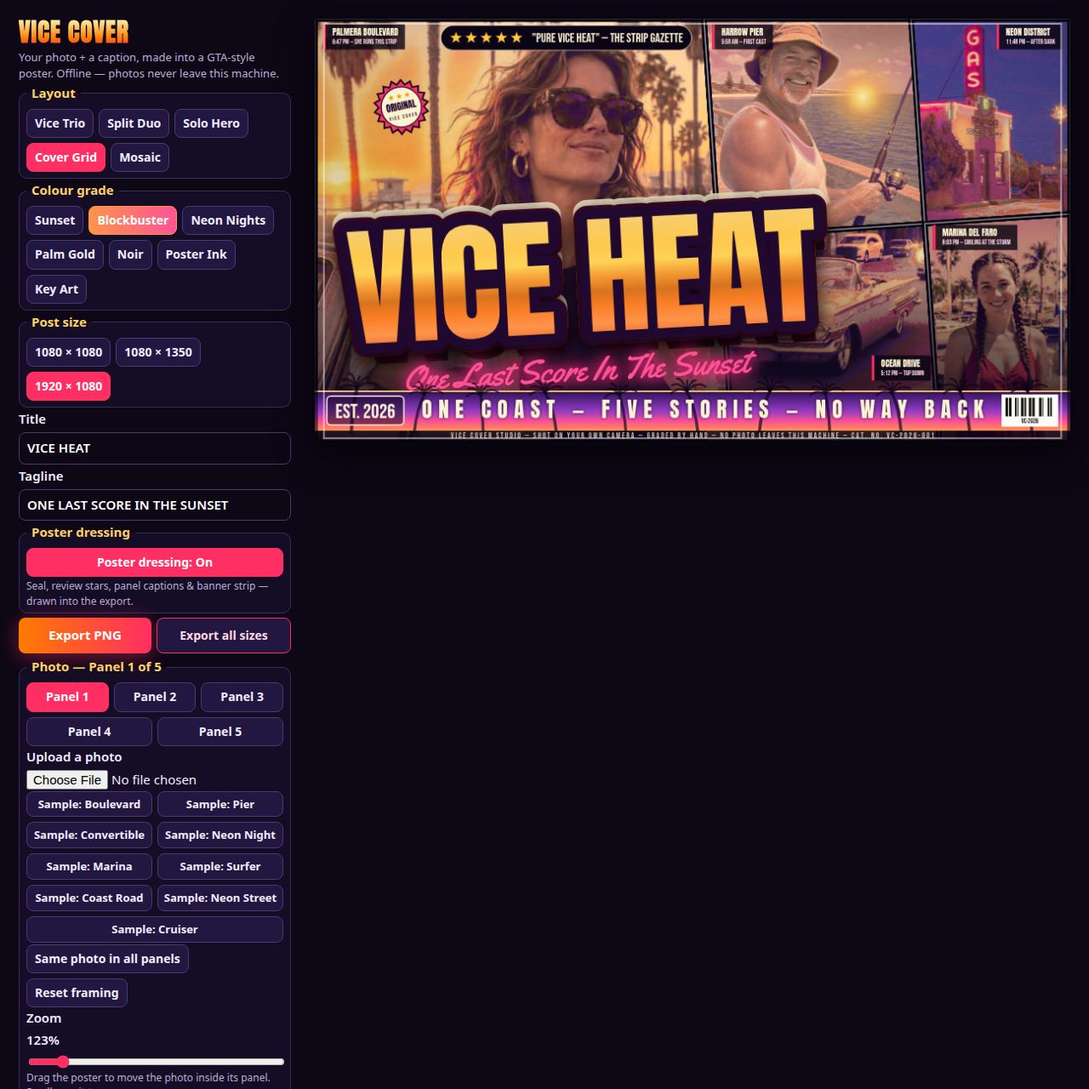
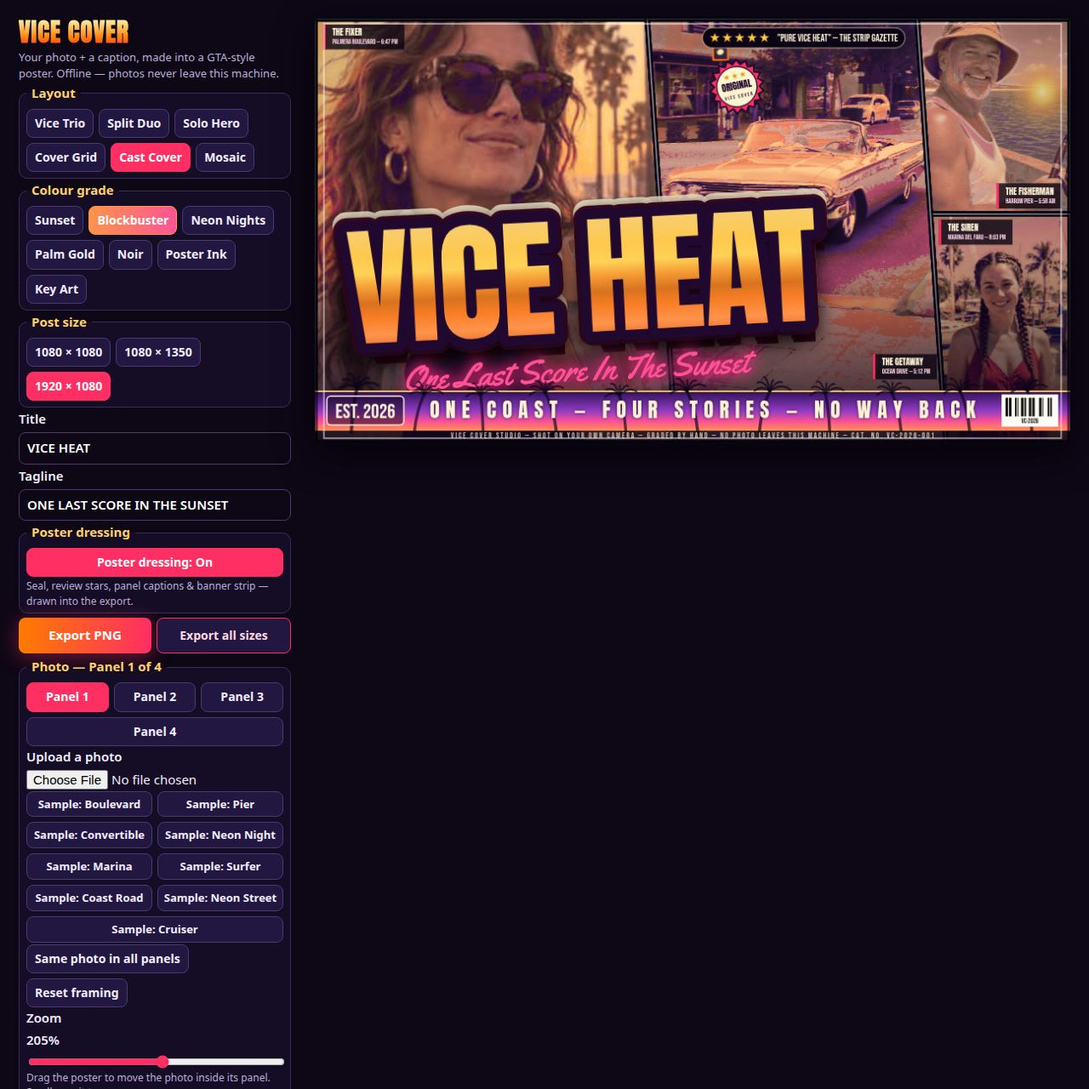
Round 48: Cast Cover — asymmetric cast-dominant layout
New layout 'cast' (editor button 'Cast Cover', the landscape
showcase): a dominant hero panel (44% of the cover's width,
full height) whose heroine's face stands 486 px tall — 45% of
the panel against the Grid's 31% — a full-height cruiser scene
panel in the middle with the car reframed into the strip above
the title band (visible car area ~134k px, about twice the
Grid cell's ~68k), and a stacked portrait column: the
fisherman over the marina portrait, her cell kept at the exact
canvas scale its skin gate proved. Every panel carries its
cast-role chip — THE FIXER / THE FISHERMAN / THE SIREN /
THE GETAWAY — over the established place-and-time line; the
seal and review pill ride the scene panel, clear of every
face; the banner counts four stories. Skin gates all pass
(heroine 18.14/18.43, marina 17.78/18.42, fisherman tight
0.63/1.39, wide 2.09/3.84). Portrait screenshot stays on the
proven Duo; Grid rendering is pixel-identical to round 46.

diff --git a/app/src/poster.js b/app/src/poster.js
@@ -45,6 +45,7 @@ export const LAYOUTS = {
   duo: { panels: 2, slant: 0.055, label: 'Split Duo' },
   solo: { panels: 1, slant: 0, label: 'Solo Hero' },
   grid: { panels: 5, slant: 0, label: 'Cover Grid' },
+  cast: { panels: 4, slant: 0, label: 'Cast Cover' },
   mosaic: { panels: 9, slant: 0, label: 'Mosaic' },
 };
 
@@ -437,6 +438,7 @@ export const GRADES = {
  *  is a 3x3 grid of nine equal cells (the GTA V cover pattern). */
 export function panelShapes(w, h, layout) {
   if (layout === 'grid') return { shapes: gridShapes(w, h), slant: 0, count: 5 };
+  if (layout === 'cast') return { shapes: castShapes(w, h), slant: 0, count: 4 };
   if (layout === 'mosaic') return { shapes: mosaicShapes(w, h), slant: 0, count: 9 };
   const spec = LAYOUTS[layout] ?? LAYOUTS.trio;
   const n = spec.panels;
@@ -550,6 +552,71 @@ function gridShapes(w, h) {
   return [rect(0, 0, w, mh, true),
     rect(0, mh, cw, h - mh), rect(cw, mh, cw, h - mh),
     rect(2 * cw, mh, cw, h - mh), rect(3 * cw, mh, cw, h - mh)];
+}
+
+/** Cast (round 48): the asymmetric cast block the top of the board
+ *  wins with — one dominant hero panel, a column of stacked portraits
+ *  and a tall vehicle scene, instead of the Grid's even satellite
+ *  block where every subject read at the same small scale. Panel
+ *  order is the cast order everywhere: hero, pier portrait, marina
+ *  portrait, cruiser scene.
+ *  Landscape: the hero takes the left 44% of the frame at full
+ *  height behind the same right-leaning divider the Grid uses; the
+ *  portraits stack in a column at the right whose width (389/1920 of
+ *  the frame) and split (the marina panel keeps 54% of the height)
+ *  hold the marina cell at exactly the size its measured skin gate
+ *  was proven at in the Grid — its draw scale does not move, so the
+ *  portrait that could not grow in round 47 keeps its proven frame
+ *  while the hero grows around it; the cruiser scene fills the tall
+ *  middle between the hero's divider and the portrait column, a
+ *  full-height stage the lettering only crosses at its left flank,
+ *  so the car shows whole instead of as the strip the Grid's band
+ *  left of it. The three right-hand panels share the hero's lean, so
+ *  the four tile the canvas exactly.
+ *  Portrait: hero across the top (46% of the height), the two
+ *  portraits side by side under it, the cruiser as a wide strip
+ *  along the foot. Square: the same stack with a taller hero. */
+function castShapes(w, h) {
+  const rect = (x, y, pw, ph, main) => ({
+    x, y, w: pw, h: ph, main: !!main,
+    poly: [[x, y], [x + pw, y], [x + pw, y + ph], [x, y + ph]],
+  });
+  if (w > h) {
+    const lean = w * 0.038;
+    const hw = w * 0.44;
+    const colW = w * (389 / 1920);
+    const cw0 = w - colW;
+    const ph = h * 0.46;
+    const shape = (poly, main) => {
+      const xs = poly.map((p) => p[0]);
+      const ys = poly.map((p) => p[1]);
+      const x = Math.min(...xs);
+      const y = Math.min(...ys);
+      return {
+        x, y, w: Math.max(...xs) - x, h: Math.max(...ys) - y,
+        main: !!main, poly,
+      };
+    };
+    const t = ph / h;
+    return [
+      shape([[0, 0], [hw, 0], [hw + lean, h], [0, h]], true),
+      shape([[cw0, 0], [w, 0], [w, ph], [cw0 + lean * t, ph]]),
+      shape([[cw0 + lean * t, ph], [w, ph], [w, h], [cw0 + lean, h]]),
+      shape([[hw, 0], [cw0, 0], [cw0 + lean, h], [hw + lean, h]]),
+    ];
+  }
+  if (w < h) {
+    const mh = h * 0.46;
+    const ch = h * 0.3;
+    return [rect(0, 0, w, mh, true),
+      rect(0, mh, w / 2, ch), rect(w / 2, mh, w / 2, ch),
+      rect(0, mh + ch, w, h - mh - ch)];
+  }
+  const mh = h * 0.5;
+  const ch = h * 0.28;
+  return [rect(0, 0, w, mh, true),
+    rect(0, mh, w / 2, ch), rect(w / 2, mh, w / 2, ch),
+    rect(0, mh + ch, w, h - mh - ch)];
 }
 
 /** Mosaic: nine equal cells in a 3x3 grid, whatever the canvas aspect —
@@ -1836,11 +1903,13 @@ const SUN_FX = {
   trio: { land: 0.685, sq: 0.58, port: 0.565 },
   duo: { land: 0.78, sq: 0.64, port: 0.6 },
   grid: { land: 0.7, sq: 0.625, port: 0.78 },
+  cast: { land: 0.7, sq: 0.68, port: 0.68 },
 };
 const SUN_R = {
   trio: { land: 0.072, sq: 0.065, port: 0.065 },
   duo: { land: 0.072, sq: 0.065, port: 0.065 },
   grid: { land: 0.052, sq: 0.05, port: 0.065 },
+  cast: { land: 0.05, sq: 0.05, port: 0.06 },
 };
 
 export function sunAnchor(state, shapes, w, h) {
@@ -1944,6 +2013,23 @@ const PANEL_CAPTIONS = [
   ['OCEAN DRIVE', '5:12 PM — TOP DOWN'],
   ['NEON DISTRICT', '11:48 PM — AFTER DARK'],
   ['MARINA DEL FARO', '8:03 PM — SMILING AT THE STORM'],
+];
+
+// Role chips for the Cast layout's four panels, in cast order — the
+// complete system, one role per panel, each name born from what its
+// photo actually shows (round 45's lesson: a half-mixed system of
+// roles and places read as half-hearted, and a role the image does
+// not support reads as pasted on). The heroine runs the boulevard
+// in sunglasses — the fixer. The pier man holds a fishing rod on his
+// own pier — the fisherman, literally. The marina girl smiles out
+// of the harbour dusk — the siren. The cruiser is the car the story
+// leaves in — the getaway. The sub-line keeps the Grid chips' own
+// form, place and hour, so the role sits on the same furniture.
+const CAST_CAPTIONS = [
+  ['THE FIXER', 'PALMERA BOULEVARD — 6:47 PM'],
+  ['THE FISHERMAN', 'HARROW PIER — 5:58 AM'],
+  ['THE SIREN', 'MARINA DEL FARO — 8:03 PM'],
+  ['THE GETAWAY', 'OCEAN DRIVE — 5:12 PM'],
 ];
 
 function rr(ctx, x, y, w, h, r) {
@@ -2051,18 +2137,23 @@ function drawSeal(ctx, cx, cy, r, rot) {
  *  (round 15 pixel scan below), so that one pill is filled solid —
  *  nothing behind it can show through its body. */
 function drawRatingRow(ctx, w, h, cy, spot = null) {
-  const starR = h * 0.0155;
+  // `spot.scale` (round 48, the Cast cruiser placement) shrinks the
+  // whole pill as one piece — stars, lettering, gaps and padding —
+  // for a panel narrower than the hero it was designed on; every
+  // existing caller leaves it unset and gets exactly 1.
+  const sc = spot && spot.scale ? spot.scale : 1;
+  const starR = h * 0.0155 * sc;
   const quote = `${REVIEW_QUOTE} — ${REVIEW_SOURCE}`;
-  ctx.font = `${Math.round(h * 0.029)}px "Bebas Neue", sans-serif`;
+  ctx.font = `${Math.round(h * 0.029 * sc)}px "Bebas Neue", sans-serif`;
   const tw = ctx.measureText(quote).width;
   const starsW = 5 * starR * 2.3;
-  const gap = h * 0.016;
-  const padX = h * 0.02;
+  const gap = h * 0.016 * sc;
+  const padX = h * 0.02 * sc;
   const totalW = starsW + gap + tw;
   const x0 = spot && spot.right != null
     ? spot.right - totalW - padX
     : (w - totalW) / 2;
-  const pillH = h * 0.058;
+  const pillH = h * 0.058 * sc;
   rr(ctx, x0 - padX, cy - pillH / 2, totalW + padX * 2, pillH, pillH / 2);
   ctx.fillStyle = spot && spot.opaque ? '#0a0414' : 'rgba(10, 4, 20, 0.62)';
   ctx.fill();
@@ -2080,21 +2171,22 @@ function drawRatingRow(ctx, w, h, cy, spot = null) {
   ctx.fillStyle = '#fff3d6';
   ctx.textAlign = 'left';
   ctx.textBaseline = 'alphabetic';
-  ctx.fillText(quote, x0 + starsW + gap, cy + h * 0.0102);
+  ctx.fillText(quote, x0 + starsW + gap, cy + h * 0.0102 * sc);
 }
 
 /** One caption chip per Grid panel, top-left inside the panel: a dark
  *  chip with a magenta spine, the place in Anton and the time-and-beat
  *  line under it in Bebas — the cover lines of the bundled scenes. */
-function drawPanelChips(ctx, shapes, w, h) {
+function drawPanelChips(ctx, shapes, w, h, layoutKey) {
+  const caps = layoutKey === 'cast' ? CAST_CAPTIONS : PANEL_CAPTIONS;
   const nameSize = Math.round(h * 0.0205);
   const subSize = Math.round(h * 0.0155);
   const padX = Math.max(8, w * 0.007);
   const padY = Math.max(5, h * 0.007);
   const barW = Math.max(3, w * 0.0024);
   const lineGap = Math.max(2, h * 0.003);
-  for (let i = 0; i < shapes.length && i < PANEL_CAPTIONS.length; i++) {
-    const [name, sub] = PANEL_CAPTIONS[i];
+  for (let i = 0; i < shapes.length && i < caps.length; i++) {
+    const [name, sub] = caps[i];
     ctx.font = `${nameSize}px Anton, "Arial Black", sans-serif`;
     const nameW = ctx.measureText(name).width;
     ctx.font = `${subSize}px "Bebas Neue", sans-serif`;
@@ -2112,14 +2204,30 @@ function drawPanelChips(ctx, shapes, w, h) {
     // portrait and square Grids flag nothing and keep the plain
     // top-left rule.
     const buried = w > h && !!shapes[i].chipLow;
-    let x = i === 3
+    // The Cast cruiser's chip (round 48): the scene panel's top is
+    // the review pill's ground and its left flank is the title's, so
+    // THE GETAWAY drops to the panel's lower right instead — the
+    // street below the car, above the banner strip, clamped inside
+    // the panel's slanted right edge like every other chip.
+    const castLow = layoutKey === 'cast' && w > h && i === 3;
+    // The Cast pier chip (round 48): the portrait column is narrow,
+    // so a top-left chip there would sit across the fisherman's hat
+    // and forehead — his panel's one crowded corner. THE FISHERMAN
+    // instead rides the panel's lower right, over the open sea
+    // beside his rod, clear of the face above and the divider below.
+    const castSea = layoutKey === 'cast' && w > h && i === 1;
+    let x = i === 3 || castSea
       ? shapes[i].x + shapes[i].w - chipW - w * 0.011
       : (buried
         ? shapes[i].x + shapes[i].w - chipW - w * 0.011
         : shapes[i].x + w * 0.011);
-    let y = buried
-      ? shapes[i].y + shapes[i].h * 0.6
-      : shapes[i].y + h * 0.013;
+    let y = castLow
+      ? h * 0.79
+      : (castSea
+        ? shapes[i].y + shapes[i].h - chipH - h * 0.013
+        : (buried
+          ? shapes[i].y + shapes[i].h * 0.6
+          : shapes[i].y + h * 0.013));
     // Round 19: the landscape Grid's panels are parallelograms now, so
     // a chip parked off the bounding box can hang over a slanted edge
     // onto the neighbouring panel (the marina cell's top-left corner
@@ -2135,7 +2243,7 @@ function drawPanelChips(ctx, shapes, w, h) {
     const spanR = polySpanAtX(shapes[i].poly, x + chipW);
     if (spanL) y = Math.max(y, spanL.top + mY);
     if (spanR) y = Math.max(y, spanR.top + mY);
-    if (i === 3 || buried) {
+    if (i === 3 || buried || castSea) {
       const spanT = polySpanAtY(shapes[i].poly, y);
       const spanB = polySpanAtY(shapes[i].poly, y + chipH);
       if (spanT) x = Math.min(x, spanT.right - chipW - mX);
@@ -2257,8 +2365,12 @@ function drawBannerStrip(ctx, w, h, state) {
   // letterspaced capitals, fitted to the space BETWEEN the chip and
   // the barcode and centred in that span — on a narrow canvas the
   // height-scaled chip and barcode would otherwise eat the line's
-  // first and last letters.
-  const line = BANNER_LINE;
+  // first and last letters. The Cast cover counts its own panels:
+  // four stories, not five — the copy stays true to the cover it
+  // rides on.
+  const line = state.layout === 'cast'
+    ? 'ONE COAST — FOUR STORIES — NO WAY BACK'
+    : BANNER_LINE;
   const midL = estX + estW + w * 0.02;
   const midR = bcX - w * 0.02;
   let size = Math.round(sh * 0.54);
@@ -2297,7 +2409,21 @@ function drawDressing(ctx, w, h, state, shapes, titleBox) {
     drawSeal(ctx, w * 0.94, h * 0.055, minSide * 0.05, 0.18);
     return;
   }
-  if (state.layout === 'grid') {
+  if (state.layout === 'cast') {
+    drawPanelChips(ctx, shapes, w, h, 'cast');
+    if (w > h) {
+      // Landscape Cast: the hero's sky belongs to her face now, so
+      // the seal and the review pill move to the cruiser scene's
+      // sky and street — the one panel with no face to protect. The
+      // seal rides the upper street at the panel's left-of-centre;
+      // the pill (scaled to the panel's narrower span, opaque like
+      // the Grid hero's) right-aligns to the panel's own slanted
+      // right edge at its top, clear of the seal below it.
+      drawSeal(ctx, shapes[3].x + shapes[3].w * 0.3, h * 0.16, minSide * 0.064, -0.2);
+    } else {
+      drawSeal(ctx, w * 0.5, shapes[1].y, minSide * 0.085, -0.2);
+    }
+  } else if (state.layout === 'grid') {
     drawPanelChips(ctx, shapes, w, h);
     // Landscape Grid: the seal rides the HERO panel's sky — measured,
     // not assumed. Round 13 put it on the causeway panel on the claim
@@ -2354,6 +2480,13 @@ function drawDressing(ctx, w, h, state, shapes, titleBox) {
       // the fisherman's corner.
       const heroSpan = polySpanAtY(shapes[0].poly, h * 0.045);
       drawRatingRow(ctx, w, h, h * 0.045, { right: (heroSpan ? heroSpan.right : shapes[0].x + shapes[0].w) - w * 0.018, opaque: true });
+    } else if (state.layout === 'cast' && w > h) {
+      // The Cast pill (see the seal note above): right-aligned to
+      // the cruiser panel's slanted right edge at the pill's height,
+      // scaled to fit inside the panel's span at that height, opaque
+      // because the street behind it is busy print.
+      const sceneSpan = polySpanAtY(shapes[3].poly, h * 0.045);
+      drawRatingRow(ctx, w, h, h * 0.045, { right: (sceneSpan ? sceneSpan.right : shapes[3].x + shapes[3].w) - w * 0.018, opaque: true, scale: 0.82 });
     } else {
       const cy = titleBox
         ? titleBox.baseline - titleBox.size - h * 0.042
@@ -2706,7 +2839,7 @@ export function drawPoster(canvas, state) {
       // pill). The stack also rides higher than the undressed one,
       // because the banner strip below it is a full design band now,
       // not a footnote strip.
-      const bandTitle = dressed && state.layout === 'grid' && w > h;
+      const bandTitle = dressed && (state.layout === 'grid' || state.layout === 'cast') && w > h;
       const heroCx = (!bandTitle && dressed && state.layout === 'grid' && w > h)
         ? shapes[0].x + shapes[0].w / 2
         : null;

diff --git a/app/src/shots.js b/app/src/shots.js
@@ -75,6 +75,22 @@ export async function runShot(shot, query, helpers) {
   const heroFrame = (state.layout === 'grid' && state.grade === 'blockbuster')
     ? { zoom: 1.23, ox: 0.4, oy: 0.74 }
     : undefined;
+  // The Cast showcase's hero framing (round 48): the Cast hero panel
+  // is narrower than the Grid's (44% of the frame against 51.5%) but
+  // the face it carries is far larger — the panel itself does the
+  // growing the Grid's zoom could not. At zoom 2.05 the established
+  // face box stands ~486 px tall, ~45% of the panel's height against
+  // the Grid's 31%, with its chin on the title band's top edge and
+  // its hair just under the frame's top; the window shows her head,
+  // shoulders and upper chest above the letters and the car's zone
+  // below them, the winners' pattern the Grid scene already follows.
+  // The portrait Cast hero (1080x1350) is width-driven instead: at
+  // zoom 1.05 her face already stands ~47% of its shorter panel.
+  const castHeroFrame = (state.layout === 'cast' && state.grade === 'blockbuster')
+    ? (state.size === '1080x1350'
+      ? { zoom: 1.05, ox: 0.35, oy: 0.78 }
+      : { zoom: 2.05, ox: -0.35, oy: 0.6 })
+    : undefined;
   // The Blockbuster Grid showcase's scene panels get their own
   // framings, for the same reason the hero does. The cruiser photo
   // (round 34: the 1960 Impala convertible street scene restored
@@ -134,6 +150,29 @@ export async function runShot(shot, query, helpers) {
   const cruiserFrame = (showcaseScene && third.endsWith('cruiser.jpg'))
     ? { zoom: 1.65, ox: -0.24, oy: -0.16 }
     : undefined;
+  // The Cast cruiser framing (round 48): the scene panel is tall and
+  // full-height, and the window (zoom 1.28) is raised so the whole
+  // car — nose to fin — rides in the strip ABOVE the title band,
+  // the mirror of the Grid cell's trick of holding the car in the
+  // strip below the letters: the car's established box stands at
+  // canvas y ~255-565 with the seal just above its roofline, and
+  // the visible car area measures ~134k px, about twice what the
+  // Grid cell showed from behind the lettering (~68k). The street
+  // and the title fill the panel below the car. The portrait strip
+  // centres a gentler window on the car instead.
+  const cruiserCastFrame = (state.layout === 'cast' && state.grade === 'blockbuster' && third.endsWith('cruiser.jpg'))
+    ? (state.size === '1080x1350'
+      ? { zoom: 1.15, ox: 0.74, oy: -0.03 }
+      : { zoom: 1.28, ox: 0.44, oy: -0.78 })
+    : undefined;
+  // The Cast pier framing (round 48): the portrait column is
+  // narrower than the Grid's pier cell, so the window zooms to 1.25
+  // to hold the fisherman's face at the size the Grid showed it —
+  // the draw scale lands where the Grid's own cell put it, and the
+  // whole man stays in frame: hat, face, torso, rod hand, railing.
+  const pierCastFrame = (state.layout === 'cast' && state.grade === 'blockbuster' && second.endsWith('pier.jpg'))
+    ? { zoom: 1.25, ox: 0, oy: 0.55 }
+    : undefined;
   const neonFrame = (showcaseScene && fourth.endsWith('neon.jpg'))
     ? { zoom: 1.1, ox: -0.44, oy: 0.55 }
     : undefined;
@@ -163,12 +202,21 @@ export async function runShot(shot, query, helpers) {
   const pierDuoFrame = (state.layout === 'duo' && state.grade === 'blockbuster' && second.endsWith('pier.jpg'))
     ? { zoom: 0.87, ox: 0, oy: 1 }
     : undefined;
-  put(0, first, imgA, heroFrame);
-  put(1, second, imgB, pierDuoFrame);
+  put(0, first, imgA, heroFrame ?? castHeroFrame);
+  put(1, second, imgB, pierDuoFrame ?? pierCastFrame);
   put(2, third, imgC, cruiserFrame);
   put(3, fourth, imgD, neonFrame);
   put(4, fifth, imgE);
   put(5, sixth, imgF);
+  // The Cast layout's panel order is its own — hero, pier portrait,
+  // marina portrait, cruiser scene: the marina takes panel 2 (at the
+  // renderer's default framing exactly; its Cast cell is built to
+  // the size that frame was proven at in the Grid) and the cruiser
+  // takes panel 3 at its Cast frame above.
+  if (state.layout === 'cast') {
+    put(2, fifth, imgE);
+    put(3, third, imgC, cruiserCastFrame);
+  }
   // Mosaic's last row: second showings of the first three photos, sharing
   // their Image objects so the renderer mirrors them like the editor does.
   put(6, first, imgA);

diff --git a/main.ts b/main.ts
@@ -8,8 +8,11 @@
 // make.fun library (vendor/makefun-app.ts, unchanged).
 //
 // The app itself: pick a photo per panel, crop it by dragging, pick a layout
-// (Vice Trio / Split Duo / Solo Hero / Cover Grid / Mosaic — Mosaic's
-// lettering sits in a title band below its nine panels), a colour grade
+// (Vice Trio / Split Duo / Solo Hero / Cover Grid / Cast Cover / Mosaic —
+// Mosaic's lettering sits in a title band below its nine panels; Cast Cover
+// is the asymmetric showcase: one dominant hero panel at poster scale, two
+// stacked portraits and a full-height scene panel, every panel carrying
+// its cast-role caption chip), a colour grade
 // (Sunset, Neon Nights, Palm Gold, Noir, Poster Ink — all gradient-mapped,
 // Poster Ink with a highlight-masked halftone, Noir with an ordered Bayer
 // dither through its posterize — Blockbuster, the photographic class: a

diff --git a/app/index.html b/app/index.html
@@ -22,6 +22,7 @@
         <button type="button" data-layout="duo">Split Duo</button>
         <button type="button" data-layout="solo">Solo Hero</button>
         <button type="button" data-layout="grid">Cover Grid</button>
+        <button type="button" data-layout="cast">Cast Cover</button>
         <button type="button" data-layout="mosaic">Mosaic</button>
       </div>
     </fieldset>

diff --git a/README.md b/README.md
@@ -4,7 +4,7 @@
 [![rank](https://make.fun/badge/gta6-cover-art-01/cleoworks/gta6-cover-art/rank.svg)](https://make.fun/bounty/gta6-cover-art-01/leaderboard?utm_source=github&utm_medium=readme&utm_campaign=gta6-cover-art-01)
 [![reward](https://make.fun/badge/gta6-cover-art-01/cleoworks/gta6-cover-art/reward.svg)](https://make.fun/bounty/gta6-cover-art-01?utm_source=github&utm_medium=readme&utm_campaign=gta6-cover-art-01)
 
-VICE COVER turns your photos and a caption into GTA 6-style poster cover art: multi-panel layouts (Vice Trio, Split Duo, Solo Hero, a five-panel Cover Grid with one hero panel and four satellites, and Mosaic — a nine-panel 3×3 grid in the classic cover pattern whose lettering sits in a title band below the grid, so all nine panels stay fully visible), a sunset-gradient title with a double outline (a polished chrome gradient in Noir; on Blockbuster the sunset family itself — cream into gold into orange — with a dark plum rim and a hard extruded block of maroon-plum shade stepped under the fill, so the lettering sits in the art the way the winning covers' does), a neon script tagline, and seven colour grades (Sunset, Blockbuster — the photographic class: a continuous 256-step gradient map with no posterize at all, so every strand of hair, skin texture and sparkle of sea survives, enriched by a gentle S-curve and a saturation scale around each pixel's own luminance that pushes the sunset deep and warm while skin stays protected — a skin-tone detector moderates the grade's mix and saturation exactly where skin sits, so faces never go tangerine; detected skin whose hue still sits in the magenta sector is rotated toward the warm brown family with its saturation and value preserved, so a magenta-lit face lands in the same colour family as the field's best covers instead of glowing pink; the sun renders in this grade as a soft photographic glow melted into the panel's own light, never a hard vector disc; and in multi-panel layouts each satellite panel's white balance is walked toward the hero panel's — measured per panel from its graded colours, skin exempt from the walk — so the whole grid reads as one world under one sunset — Neon, Palm Gold, Noir, Poster Ink — a bold screen-print duotone with a firmer posterize and a jittered halftone dot screen that lives in smooth highlights — sky, sea, glint — and fades out over detailed texture (fabric, hair) and off bright neutral surfaces like white clothing entirely, never on faces — and Key Art, the painted class described below), all but Key Art and Blockbuster applied as true gradient maps with a light cel-shade posterize. An optional poster dressing — the furniture of a real one-sheet, drawn procedurally into the poster and therefore into every export while it is on — adds a tilted starburst seal, a five-star review line with a pull-quote above the title, a caption chip on every panel of the Cover Grid (a place, a time, a story beat), a banner strip along the foot with drawn palm silhouettes, a spaced-capital slogan, an EST. 2026 chip and a drawn barcode block, and a one-line credit microtext at the very edge. Noir and Poster Ink carry shadow protection: through the shadows their ramps cross-fade to an un-posterized gradient map, so a face sitting in shade — or a whole photo taken at night — keeps its features instead of collapsing into one flat tone; Noir additionally runs an ordered Bayer dither through its posterize, breaking the flat grey plateaus a B/W quantization leaves on faces into a fine print texture that restores their tonal modelling. Key Art paints instead of grading: the photo is first softened on an edge-aware base (repeated downscale–upscale rounds dissolve photographic micro-detail and skin texture while the big shapes and hard contours survive), then mapped through a warm sunset-family ramp posterized to eight cel bands whose transitions are smoothstepped — colour areas read as flat, graded brush strokes — with shadow protection like Noir's, and finished with drawn ink contours: a Sobel pass over the softened base, computed at quarter resolution, inks the strong edges (hair and jaw silhouettes, hat brims, clothing folds, palm fronds, the horizon) in a warm dark plum-brown in two coats — a soft coat whose alpha follows edge strength, plus a second, near-full-strength coat reserved for the strongest contours alone — so the outlines read as drawn at full-frame scale while faces — whose shading gradients sit far below both ink thresholds — stay clean, under a fine paper grain; even the sun is repainted in this grade — a warm painted disc with soft shadow bands and a thin ink outline in the contour family, not the hard-slit clip-art disc of the graded classes — and the ramp's low end leans violet-to-magenta, so painted shadows keep their Vice purple depth. An automatic exposure lift steadies dark photos before grading (measured on the photo's mean luminance; bright photos pass through completely untouched, genuinely very dark photos get a substantially stronger lift whose highlight shoulder keeps lit neon signs separated instead of blown out, and night shots still look like night). Where a layout has more panels than loaded photos, a photo's later showings are mirrored and re-cropped, so a repeat reads as a different moment of the same shoot rather than a copy-paste. Nine bundled sample photos (three bright Vice scenes, a neon night portrait, a marina portrait in a red dress, a surfer carrying her board at golden hour, an aerial causeway with cars crossing turquoise water, a vintage service station under a neon GAS sign at dusk and a 1960 Impala convertible crossing a city intersection at dusk) show the range; drop in any photos of your own, drag to crop each panel, pick a post size (square, portrait or landscape), and export a share-ready PNG — one size, or all three sizes at once. Everything runs locally in the browser — your photos never leave your machine, and the app works fully offline with no network calls and no Rockstar artwork, logos or fonts.
+VICE COVER turns your photos and a caption into GTA 6-style poster cover art: multi-panel layouts (Vice Trio, Split Duo, Solo Hero, a five-panel Cover Grid with one hero panel and four satellites, Cast Cover — an asymmetric four-panel showcase built around one dominant hero panel whose face stands at poster scale, two stacked portrait panels and a full-height scene panel, every panel captioned with its cast role — and Mosaic — a nine-panel 3×3 grid in the classic cover pattern whose lettering sits in a title band below the grid, so all nine panels stay fully visible), a sunset-gradient title with a double outline (a polished chrome gradient in Noir; on Blockbuster the sunset family itself — cream into gold into orange — with a dark plum rim and a hard extruded block of maroon-plum shade stepped under the fill, so the lettering sits in the art the way the winning covers' does), a neon script tagline, and seven colour grades (Sunset, Blockbuster — the photographic class: a continuous 256-step gradient map with no posterize at all, so every strand of hair, skin texture and sparkle of sea survives, enriched by a gentle S-curve and a saturation scale around each pixel's own luminance that pushes the sunset deep and warm while skin stays protected — a skin-tone detector moderates the grade's mix and saturation exactly where skin sits, so faces never go tangerine; detected skin whose hue still sits in the magenta sector is rotated toward the warm brown family with its saturation and value preserved, so a magenta-lit face lands in the same colour family as the field's best covers instead of glowing pink; the sun renders in this grade as a soft photographic glow melted into the panel's own light, never a hard vector disc; and in multi-panel layouts each satellite panel's white balance is walked toward the hero panel's — measured per panel from its graded colours, skin exempt from the walk — so the whole grid reads as one world under one sunset — Neon, Palm Gold, Noir, Poster Ink — a bold screen-print duotone with a firmer posterize and a jittered halftone dot screen that lives in smooth highlights — sky, sea, glint — and fades out over detailed texture (fabric, hair) and off bright neutral surfaces like white clothing entirely, never on faces — and Key Art, the painted class described below), all but Key Art and Blockbuster applied as true gradient maps with a light cel-shade posterize. An optional poster dressing — the furniture of a real one-sheet, drawn procedurally into the poster and therefore into every export while it is on — adds a tilted starburst seal, a five-star review line with a pull-quote above the title, a caption chip on every panel of the Cover Grid (a place, a time, a story beat) — on Cast Cover the chips name each panel's cast role over the same place-and-time line, a banner strip along the foot with drawn palm silhouettes, a spaced-capital slogan, an EST. 2026 chip and a drawn barcode block, and a one-line credit microtext at the very edge. Noir and Poster Ink carry shadow protection: through the shadows their ramps cross-fade to an un-posterized gradient map, so a face sitting in shade — or a whole photo taken at night — keeps its features instead of collapsing into one flat tone; Noir additionally runs an ordered Bayer dither through its posterize, breaking the flat grey plateaus a B/W quantization leaves on faces into a fine print texture that restores their tonal modelling. Key Art paints instead of grading: the photo is first softened on an edge-aware base (repeated downscale–upscale rounds dissolve photographic micro-detail and skin texture while the big shapes and hard contours survive), then mapped through a warm sunset-family ramp posterized to eight cel bands whose transitions are smoothstepped — colour areas read as flat, graded brush strokes — with shadow protection like Noir's, and finished with drawn ink contours: a Sobel pass over the softened base, computed at quarter resolution, inks the strong edges (hair and jaw silhouettes, hat brims, clothing folds, palm fronds, the horizon) in a warm dark plum-brown in two coats — a soft coat whose alpha follows edge strength, plus a second, near-full-strength coat reserved for the strongest contours alone — so the outlines read as drawn at full-frame scale while faces — whose shading gradients sit far below both ink thresholds — stay clean, under a fine paper grain; even the sun is repainted in this grade — a warm painted disc with soft shadow bands and a thin ink outline in the contour family, not the hard-slit clip-art disc of the graded classes — and the ramp's low end leans violet-to-magenta, so painted shadows keep their Vice purple depth. An automatic exposure lift steadies dark photos before grading (measured on the photo's mean luminance; bright photos pass through completely untouched, genuinely very dark photos get a substantially stronger lift whose highlight shoulder keeps lit neon signs separated instead of blown out, and night shots still look like night). Where a layout has more panels than loaded photos, a photo's later showings are mirrored and re-cropped, so a repeat reads as a different moment of the same shoot rather than a copy-paste. Nine bundled sample photos (three bright Vice scenes, a neon night portrait, a marina portrait in a red dress, a surfer carrying her board at golden hour, an aerial causeway with cars crossing turquoise water, a vintage service station under a neon GAS sign at dusk and a 1960 Impala convertible crossing a city intersection at dusk) show the range; drop in any photos of your own, drag to crop each panel, pick a post size (square, portrait or landscape), and export a share-ready PNG — one size, or all three sizes at once. Everything runs locally in the browser — your photos never leave your machine, and the app works fully offline with no network calls and no Rockstar artwork, logos or fonts.
 
 Open `app/index.html` in a browser to use it.
 
